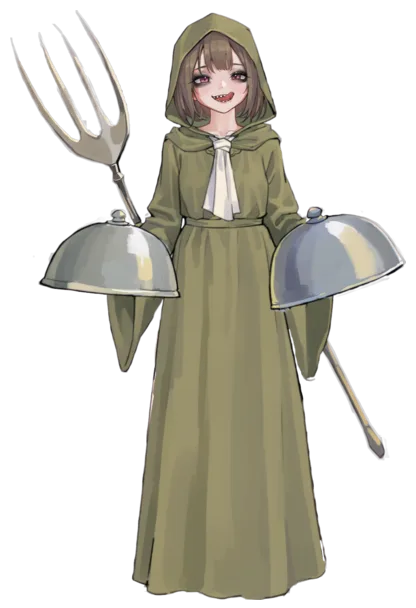
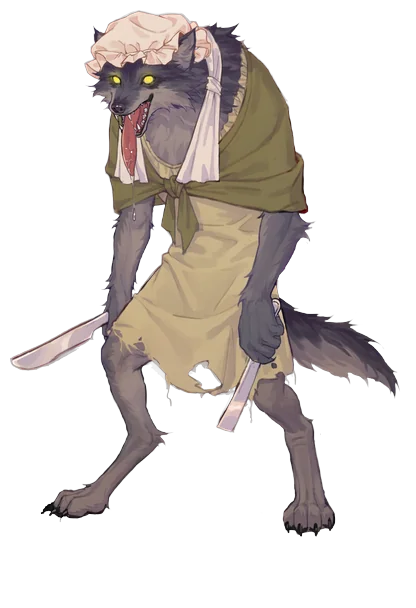
Redesign SL4 as 守夜人 and GL5 as 大野狼
Abilities are unchanged.

SL4 守夜人 dozes all day and only goes to work at nightfall, which is
the third round: +3 attack from then on. He is drawn yawning under a
slate-blue hood with a candle lantern and a halberd, with painterly
tags added so he does not come out flat.

GL5 大野狼 is the wolf from Red Riding Hood, pairing with WR1 小红帽. He
eats one bite at a time (multi-hit) and is hungriest when a single
lamb is left: +4 attack when the enemy is down to one. He wears the
grandmother's nightcap, shawl and a torn nightgown, drooling, with
blades in both paws.

diff --git a/sin-squad-core/src/content/characters.ts b/sin-squad-core/src/content/characters.ts
@@ -62,11 +62,11 @@ export const CHARACTERS: readonly CharacterDef[] = [
     ability: "开战时筹码领先：屏障 +1", tag: "守财", stage: 1 },
   { id: "GL4", name: "噬铁软泥", sin: "暴食", atk: 3, hp: 8, shape: "multi", armor: 0, barrier: 0,
     ability: "打中带护甲的敌人时，使它护甲 -1（每个敌人一次）", tag: "腐蚀", stage: 1 },
-  { id: "GL5", name: "终宴侍女", sin: "暴食", atk: 4, hp: 7, shape: "multi", armor: 0, barrier: 0,
+  { id: "GL5", name: "大野狼", sin: "暴食", atk: 4, hp: 7, shape: "multi", armor: 0, barrier: 0,
     ability: "敌方只剩一人时攻 +4", tag: "收割", stage: 2 },
   { id: "EN4", name: "影子", sin: "嫉妒", atk: 4, hp: 7, shape: "heavy", armor: 0, barrier: 0,
     ability: "攻击被亮出的敌人时攻 +2", tag: "看穿亮牌", stage: 1 },
-  { id: "SL4", name: "守钟人", sin: "怠惰", atk: 4, hp: 8, shape: "heavy", armor: 0, barrier: 0,
+  { id: "SL4", name: "守夜人", sin: "怠惰", atk: 4, hp: 8, shape: "heavy", armor: 0, barrier: 0,
     ability: "第三轮起攻 +3", tag: "后期发力", stage: 2 },
   { id: "LU4", name: "交际花", sin: "色欲", atk: 3, hp: 6, shape: "heavy", armor: 0, barrier: 1,
     ability: "嘲讽：转线后的敌人优先攻击它", tag: "嘲讽", stage: 2 },

diff --git a/sin-squad-core/src/battle/engine.ts b/sin-squad-core/src/battle/engine.ts
@@ -507,9 +507,9 @@ class Battle {
     if (this.has("P23") && health(a) < 0.3) d += Math.max(1, Math.floor(d * 0.25));
     // 人物能力的攻击加值（先加，再按下面的翻倍类效果乘）
     const bonus = (name: string, n: number, text: string) => { d += n; this.trig(a, name, text); };
-    if (this.abilityOn(a, "终宴侍女") && this.alive(other(a.seat)).length === 1) bonus("终宴侍女", 4, "收割：攻 +4");
+    if (this.abilityOn(a, "大野狼") && this.alive(other(a.seat)).length === 1) bonus("大野狼", 4, "收割：攻 +4");
     if (t.seat !== a.seat && this.abilityOn(a, "影子") && this.bet[t.seat].revealedPos === t.pos) bonus("影子", 2, "看穿亮牌：攻 +2");
-    if (this.abilityOn(a, "守钟人") && r >= 3) bonus("守钟人", 3, "后期发力：攻 +3");
+    if (this.abilityOn(a, "守夜人") && r >= 3) bonus("守夜人", 3, "后期发力：攻 +3");
     if (this.abilityOn(a, "无瑕刺客") && a.hp >= a.maxHp) { d *= 2; this.trig(a, "无瑕刺客", "满血：攻击翻倍"); }
     if (this.abilityOn(a, "清算者") && r === 1 && this.bet[other(a.seat)].betOrRaiseCount > 0) { d *= 2; this.trig(a, "清算者", "对手加过注：首轮翻倍"); }
     if (this.has("P11") && (no === 3 || no === 6)) d *= 2;

diff --git a/sin-squad-core/test/abilities.test.ts b/sin-squad-core/test/abilities.test.ts
@@ -40,17 +40,17 @@ describe("第二批人物", () => {
     expect(afterHit(hidden, 1)[1][0].hp).toBe(hp("GR4") - dealt("EN4", atk("EN4"), arm("GR4")));
   });
 
-  it("终宴侍女：敌方只剩一人时攻 +4", () => {
+  it("大野狼：敌方只剩一人时攻 +4", () => {
     expect(afterHit(battle(solo("GL5"), solo("GR4")), 1)[1][0].hp).toBe(hp("GR4") - dealt("GL5", atk("GL5") + 4, arm("GR4")));
     expect(afterHit(battle(solo("GL5"), team(["GR4", "GR4", null])), 1)[1][0].hp).toBe(hp("GR4") - dealt("GL5", atk("GL5"), arm("GR4")));
   });
 
-  it("守钟人：第三轮起才加攻", () => {
+  it("守夜人：第三轮起才加攻", () => {
     const rng = new Rng(7);
     let seen = false;
     for (let i = 0; i < 400; i++) {
       for (const e of randomRun(rng).events) {
-        if (e.type !== "trigger" || e.name !== "守钟人") continue;
+        if (e.type !== "trigger" || e.name !== "守夜人") continue;
         expect(e.round).toBeGreaterThanOrEqual(3);
         seen = true;
       }

diff --git a/sin-squad-core/README.md b/sin-squad-core/README.md
@@ -117,7 +117,7 @@ npm run build:web                 # 打包到仓库根目录的 sin-squad-v3/
 - **先后手**：先手一方胜率约 51%，碰撞让先手几乎没有优势。
 - **开局胜率**：最差一成约 38%、中位 50%、最好一成约 63%，98.5% 落在 30%–80%，已达标。
 - **人物胜率**（29 名）：44.6%–54.6%。食腐鸦、痴情骑士最高（54.6%），密探最低（44.6%）、孔雀 45.0%；密探、孔雀的价值依赖情报和亮牌决策，随机模拟会低估它们。
-- **第二批 8 名**：攻城锤手（第一次打破屏障攻 +2）、金库守卫（开战时筹码领先得屏障）、噬铁软泥（腐蚀护甲）、终宴侍女（敌方只剩一人时攻 +4）、影子（打被亮出的人攻 +2）、守钟人（第三轮起攻 +3）、交际花（嘲讽转线的敌人）、双子（2 号位两侧有队友时全队血 +2）。从一批 35 名候选里筛出，和首批能力重复、说明不清、效果平淡或会让对局更拖的都没收；胜率 46.9%–54.4%。
+- **第二批 8 名**：攻城锤手（第一次打破屏障攻 +2）、金库守卫（开战时筹码领先得屏障）、噬铁软泥（腐蚀护甲）、大野狼（敌方只剩一人时攻 +4）、影子（打被亮出的人攻 +2）、守夜人（第三轮起攻 +3）、交际花（嘲讽转线的敌人）、双子（2 号位两侧有队友时全队血 +2）。从一批 35 名候选里筛出，和首批能力重复、说明不清、效果平淡或会让对局更拖的都没收；胜率 46.9%–54.4%。
 - **平局约 9%**：同一次碰撞里双方同时达成一律算平局，约四成是双方全灭，其余多是“第一滴血”这类规则下一次碰撞各倒一人。
 - **先击倒的一方约 77% 会赢**（同时出手时是 82%）。还需要“复仇”类人物能力来进一步削弱滚雪球。
 - **牌桌太短**：电脑对手很快全押，一张牌桌平均只打 5–7 手，远少于设计的十几到二十手。需要调整携入金额、底注或下注上限，也需要更好的电脑对手。
